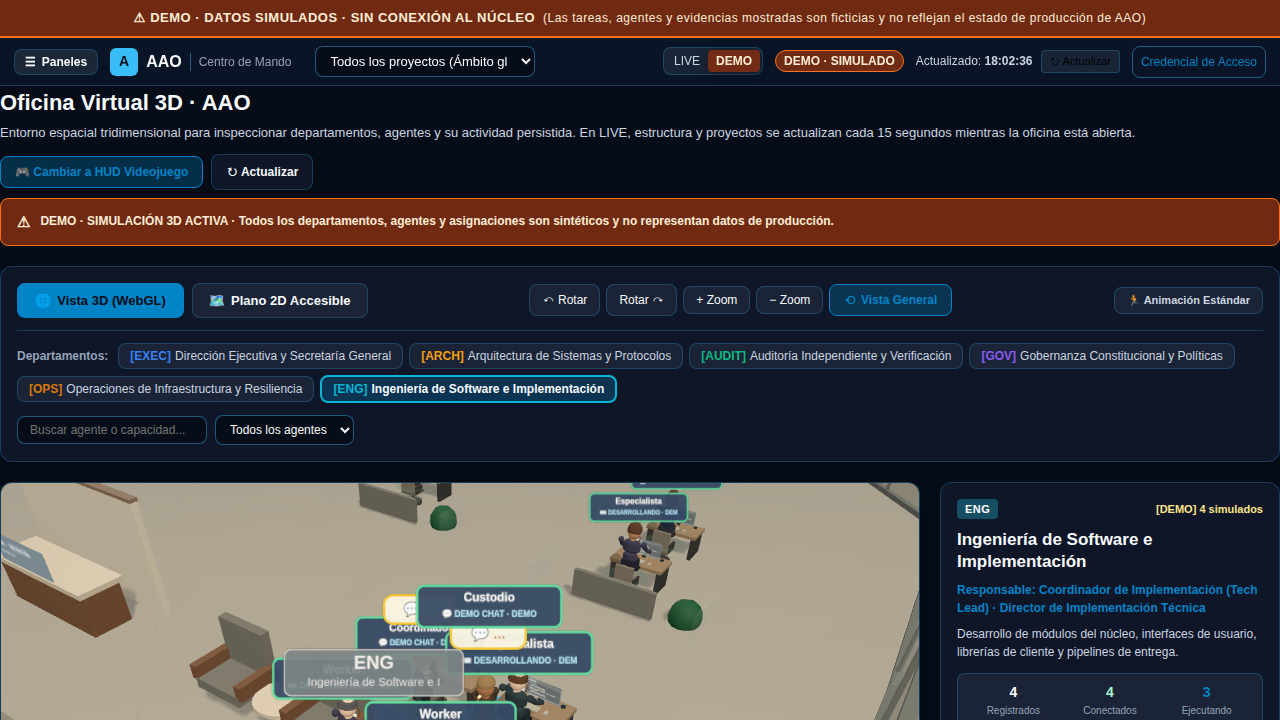
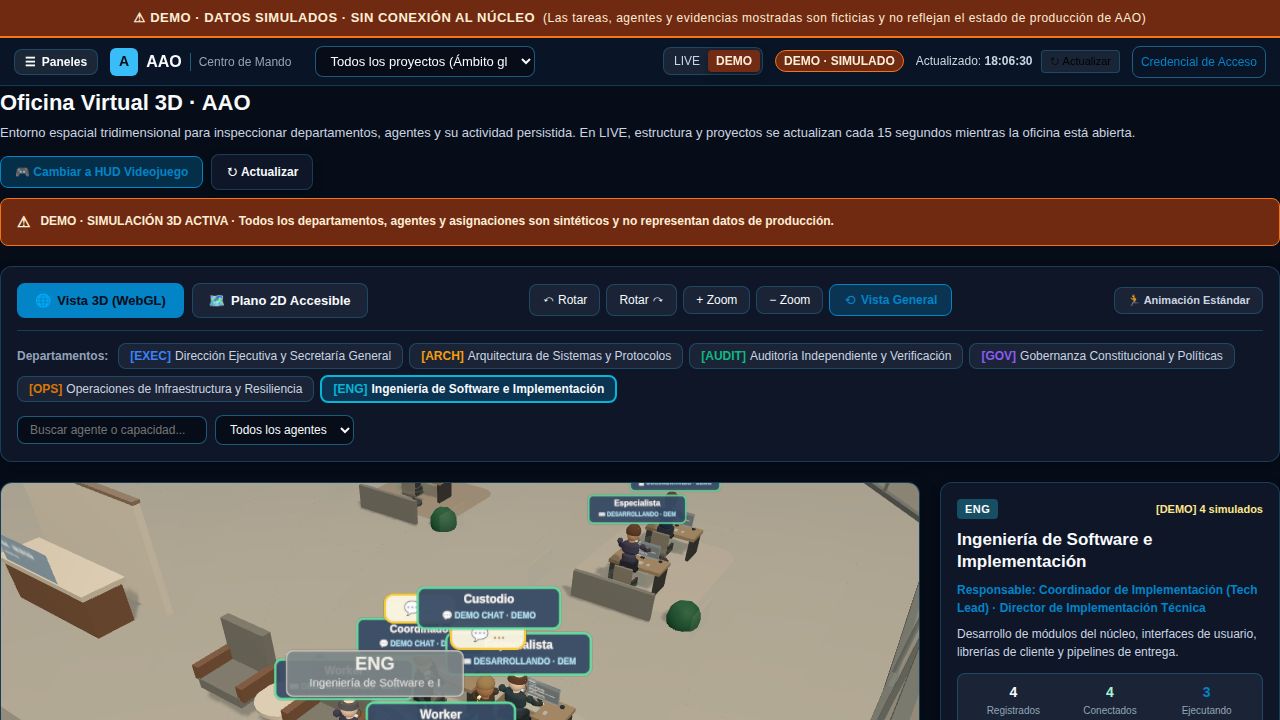
feat(office): differentiate open neighborhoods with soft flooring

diff --git a/frontend/app/src/features/office/engine/ThreeOfficeScene.ts b/frontend/app/src/features/office/engine/ThreeOfficeScene.ts
@@ -920,6 +920,44 @@ export class ThreeOfficeScene {
 
     this.interactiveMeshes.push(floor);
 
+    // Soft, rounded carpet islands make work neighborhoods readable without
+    // drawing walls or raised rectangular pads around departments. Keep a wide
+    // common-floor margin so circulation remains visibly continuous.
+    const rugWidth = Math.max(1.35, room.width - 0.9);
+    const rugDepth = Math.max(1.2, room.depth - 1.05);
+    const radius = Math.min(0.62, rugWidth * 0.22, rugDepth * 0.22);
+    const rugShape = new THREE.Shape();
+    rugShape.moveTo(-rugWidth / 2 + radius, -rugDepth / 2);
+    rugShape.lineTo(rugWidth / 2 - radius, -rugDepth / 2);
+    rugShape.quadraticCurveTo(rugWidth / 2, -rugDepth / 2, rugWidth / 2, -rugDepth / 2 + radius);
+    rugShape.lineTo(rugWidth / 2, rugDepth / 2 - radius);
+    rugShape.quadraticCurveTo(rugWidth / 2, rugDepth / 2, rugWidth / 2 - radius, rugDepth / 2);
+    rugShape.lineTo(-rugWidth / 2 + radius, rugDepth / 2);
+    rugShape.quadraticCurveTo(-rugWidth / 2, rugDepth / 2, -rugWidth / 2, rugDepth / 2 - radius);
+    rugShape.lineTo(-rugWidth / 2, -rugDepth / 2 + radius);
+    rugShape.quadraticCurveTo(-rugWidth / 2, -rugDepth / 2, -rugWidth / 2 + radius, -rugDepth / 2);
+    const finishColors: Record<NonNullable<OfficeRoomConfig['floorFinish']>, number> = {
+      'acoustic-carpet': new THREE.Color(room.color).lerp(new THREE.Color('#c5c1b7'), 0.76).getHex(),
+      'hardwood-walnut': 0x8c7660,
+      'polished-terrazzo': 0x9c9991,
+      'high-security-frosted': 0x9ba79c,
+    };
+    const rug = new THREE.Mesh(
+      new THREE.ShapeGeometry(rugShape),
+      new THREE.MeshStandardMaterial({
+        color: finishColors[room.floorFinish ?? 'acoustic-carpet'],
+        roughness: 0.96,
+        metalness: 0,
+        transparent: true,
+        opacity: 0.54,
+      }),
+    );
+    rug.name = 'neighborhood-soft-finish';
+    rug.rotation.x = -Math.PI / 2;
+    rug.position.set(0, 0.38, 0);
+    rug.receiveShadow = true;
+    roomGroup.add(rug);
+
     // Architectural Perimeter Walls & Open Doorway Entrance
     this.buildRoomArchitecture(roomGroup, room, isUnassignedHolding);
 

diff --git a/frontend/app/e2e/screenshots.spec.ts b/frontend/app/e2e/screenshots.spec.ts
@@ -34,6 +34,10 @@ test('Capture real screenshots of F4.7 and F4.8 Office', async ({ page }) => {
 
   // Capture 1: General 3D Overview
   await page.screenshot({ path: path.join(screenshotsDir, '01-office-3d-overview.png'), fullPage: false });
+  await page.screenshot({
+    path: path.join(v42EvidenceDir, 'office-overview-neighborhood-floors.png'),
+    fullPage: false,
+  });
 
   // Capture the semantically selected Audit neighborhood separately from its sign.
   const auditChip = toolbar.getByRole('button', { name: /\[AUDIT\]/i });

diff --git a/frontend/app/docs/screenshots/v42-comparison/README.md b/frontend/app/docs/screenshots/v42-comparison/README.md
@@ -5,7 +5,7 @@ Both captures use the browser-driven `e2e/screenshots.spec.ts` F4.7 overview flo
 - `office-overview-before.png`: repository screenshot from the pre-envelope revision `1a06313b1239306328b658f65c0e62eb348e112d`.
 - `office-overview-after.png`: fresh real-browser capture with the envelope/facade and aligned navigation-entry changes in the current V4.2 worktree. The test passed after capture.
 
-Current browser captures also include the selected Audit neighborhood and a zoomed operational Engineering neighborhood. The latter is a department close view, **not** a verified agent working close-up.
+Current browser captures also include the soft neighborhood floor finish, the selected Audit neighborhood, and a zoomed operational Engineering neighborhood. The latter is a department close view, **not** a verified agent working close-up.
 
 Still missing: an Agora/conversation view, a close-up proving an agent's working posture, a LIVE-empty/unconstituted capture, a top-down view, and browser-driven organization cases for one/three/eight agents plus add/remove/reorganization.
 
